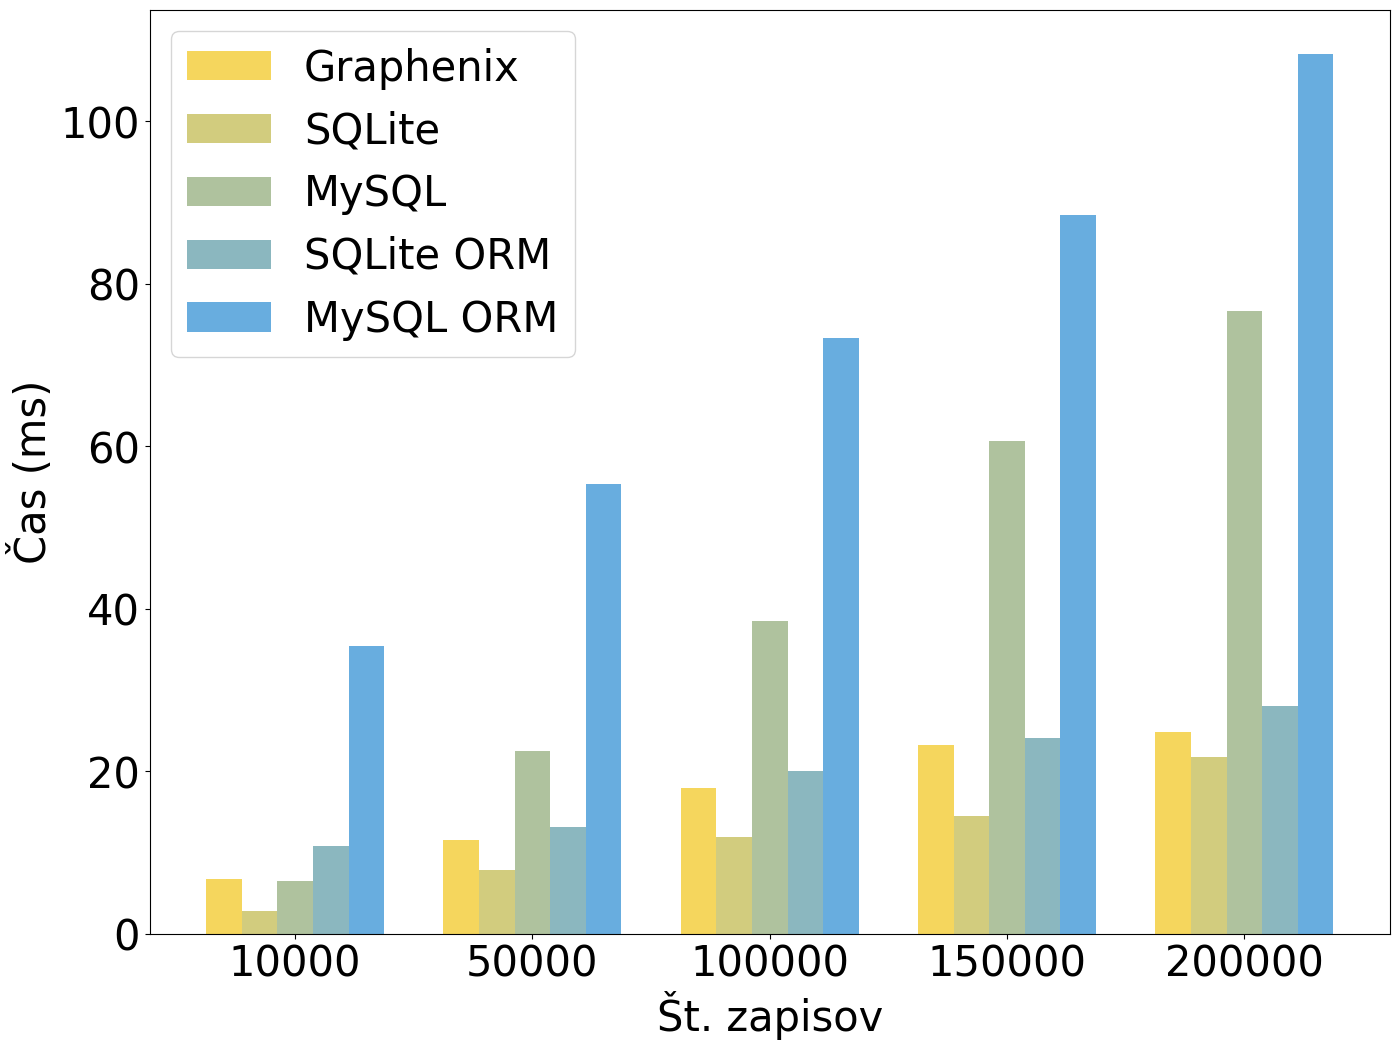
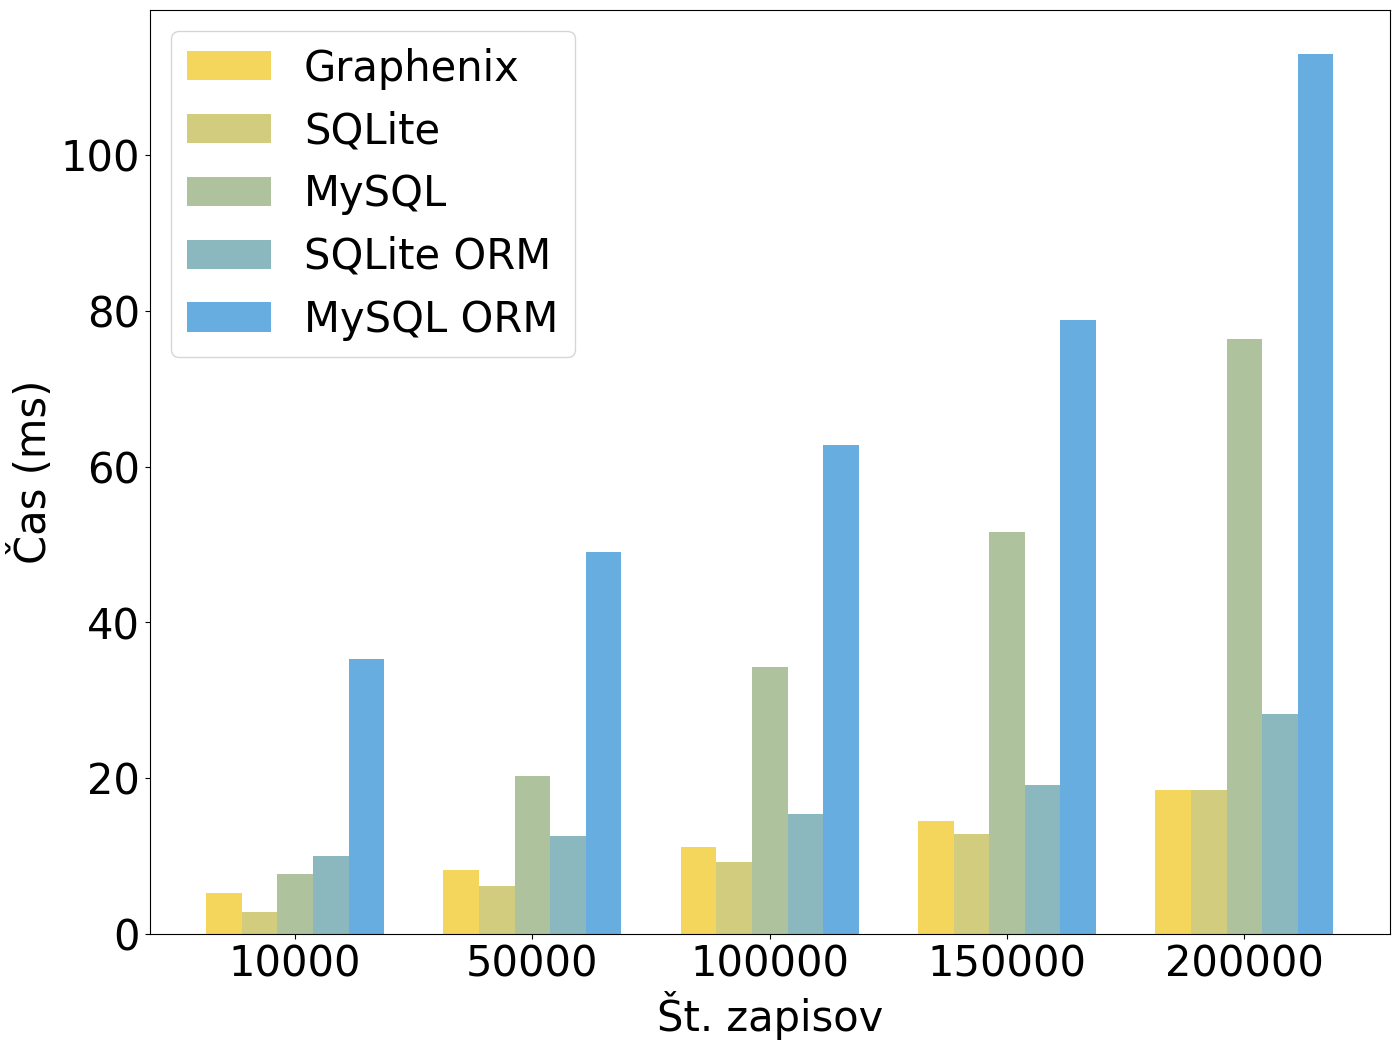
- db sizes analysis - makefile base for index insert, large db creation - resize of columns on user

diff --git a/analysis/singleinsert/sizes_analysis.py b/analysis/singleinsert/sizes_analysis.py
@@ -1,0 +1,65 @@
+import matplotlib.pyplot as plt
+import sys
+import numpy as np
+
+def read_nums(file_path): 
+    try:
+        with open(file_path, 'r') as file:
+            lines = file.readlines()
+            times = [float(line.strip()) for line in lines]
+        return np.array(times)
+    except Exception as ex:
+        print("err", ex)
+        return []
+    
+def bytes_array_to_megabytes(bytes_array):
+    megabytes_array = bytes_array / (1024 * 1024)
+    return np.round(megabytes_array, 2)
+
+def main():
+    num_users = int(sys.argv[1])
+    sizes = read_nums(f'analysis/singleinsert/size_{num_users}.txt')
+    mb_sizes = bytes_array_to_megabytes(sizes)
+    
+    plt.rcParams.update({'font.size': 3 * plt.rcParams['font.size']})
+    plt.style.use("fast")
+
+    fig, ax = plt.subplots(figsize=(16, 12))
+
+    bars = ax.bar(np.arange(3), mb_sizes, color=['#F5D65D', '#AFC29E', '#68ADDF'])
+
+    # Set labels and title
+    ax.set_xlabel('Podatkovni sistem')
+    ax.set_ylabel('Velikost (MB)')
+    ax.set_title('')
+    ax.set_xticks(np.arange(3))
+    ax.set_xticklabels(['Graphenix', 'SQLite', 'MySQL'], rotation=0)
+    for bar in bars:
+        height = bar.get_height()
+        bottom_offset = .5
+        ax.text(bar.get_x() + bar.get_width() / 2, bottom_offset, f'{height:.2f} MB', 
+                ha='center', va='bottom', fontweight='normal')
+
+    plt.savefig(f'./analysis/singleinsert/sizes.png', bbox_inches='tight')
+    plt.close()
+
+
+    
+
+if __name__ == '__main__':
+    main()
+
+
+
+    import numpy as np
+
+
+def read_nums(file_path): 
+    try:
+        with open(file_path, 'r') as file:
+            lines = file.readlines()
+            times = [float(line.strip()) for line in lines]
+        return np.array(times)
+    except Exception as ex:
+        print("err", ex)
+        return []

diff --git a/analysis/singleinsert/raw_mysql.py b/analysis/singleinsert/raw_mysql.py
@@ -9,9 +9,9 @@ random.seed(12)
 create_table = """
     CREATE TABLE `users` (
         `id` INTEGER NOT NULL AUTO_INCREMENT,
-        `first_name` varchar(50) DEFAULT NULL,
-        `last_name` varchar(50) DEFAULT NULL,
-        `email` varchar(50) DEFAULT NULL,
+        `first_name` varchar(15) DEFAULT NULL,
+        `last_name` varchar(15) DEFAULT NULL,
+        `email` varchar(30) DEFAULT NULL,
         `age` int(11) DEFAULT NULL,
         `is_admin` tinyint(1) DEFAULT NULL,
         `created_at` datetime DEFAULT NULL,

diff --git a/analysis/singleinsert/alchemy_mysql.py b/analysis/singleinsert/alchemy_mysql.py
@@ -13,9 +13,9 @@ Base = declarative_base()
 class User(Base):
     __tablename__ = 'users'
     id = Column(Integer, primary_key=True)
-    first_name = Column(String(50))
-    last_name = Column(String(50))
-    email = Column(String(50))
+    first_name = Column(String(15))
+    last_name = Column(String(15))
+    email = Column(String(30))
     age = Column(Integer)
     is_admin = Column(Boolean)
     created_at = Column(DateTime)

diff --git a/analysis/singleinsert/alchemy_sqlite.py b/analysis/singleinsert/alchemy_sqlite.py
@@ -12,9 +12,9 @@ Base = declarative_base()
 class User(Base):
     __tablename__ = 'users'
     id = Column(Integer, primary_key=True)
-    first_name = Column(String(50))
-    last_name = Column(String(50))
-    email = Column(String(50))
+    first_name = Column(String(15))
+    last_name = Column(String(15))
+    email = Column(String(30))
     age = Column(Integer)
     is_admin = Column(Boolean)
     created_at = Column(DateTime)

diff --git a/analysis/join/alchemy_mysql.py b/analysis/join/alchemy_mysql.py
@@ -13,9 +13,9 @@ class Base:
 class User(Base):
     __tablename__ = 'users'
     id = Column(Integer, primary_key=True)
-    first_name = Column(String(50))
-    last_name = Column(String(50))
-    email = Column(String(50))
+    first_name = Column(String(15))
+    last_name = Column(String(15))
+    email = Column(String(30))
     age = Column(Integer)
     is_admin = Column(Boolean)
     created_at = Column(DateTime)

diff --git a/analysis/join/alchemy_sqlite.py b/analysis/join/alchemy_sqlite.py
@@ -13,9 +13,9 @@ class Base:
 class User(Base):
     __tablename__ = 'users'
     id = Column(Integer, primary_key=True)
-    first_name = Column(String(50))
-    last_name = Column(String(50))
-    email = Column(String(50))
+    first_name = Column(String(15))
+    last_name = Column(String(15))
+    email = Column(String(30))
     age = Column(Integer)
     is_admin = Column(Boolean)
     created_at = Column(DateTime)

diff --git a/analysis/queryread/alchemy_mysql.py b/analysis/queryread/alchemy_mysql.py
@@ -13,9 +13,9 @@ class Base:
 class User(Base):
     __tablename__ = 'users'
     id = Column(Integer, primary_key=True)
-    first_name = Column(String(50))
-    last_name = Column(String(50))
-    email = Column(String(50))
+    first_name = Column(String(15))
+    last_name = Column(String(15))
+    email = Column(String(30))
     age = Column(Integer)
     is_admin = Column(Boolean)
     created_at = Column(DateTime)

diff --git a/analysis/queryread/alchemy_sqlite.py b/analysis/queryread/alchemy_sqlite.py
@@ -13,9 +13,9 @@ class Base:
 class User(Base):
     __tablename__ = 'users'
     id = Column(Integer, primary_key=True)
-    first_name = Column(String(50))
-    last_name = Column(String(50))
-    email = Column(String(50))
+    first_name = Column(String(15))
+    last_name = Column(String(15))
+    email = Column(String(30))
     age = Column(Integer)
     is_admin = Column(Boolean)
     created_at = Column(DateTime)

diff --git a/analysis/singleread/alchemy_mysql.py b/analysis/singleread/alchemy_mysql.py
@@ -13,9 +13,9 @@ class Base:
 class User(Base):
     __tablename__ = 'users'
     id = Column(Integer, primary_key=True)
-    first_name = Column(String(50))
-    last_name = Column(String(50))
-    email = Column(String(50))
+    first_name = Column(String(15))
+    last_name = Column(String(15))
+    email = Column(String(30))
     age = Column(Integer)
     is_admin = Column(Boolean)
     created_at = Column(DateTime)

diff --git a/analysis/singleread/alchemy_sqlite.py b/analysis/singleread/alchemy_sqlite.py
@@ -13,9 +13,9 @@ class Base:
 class User(Base):
     __tablename__ = 'users'
     id = Column(Integer, primary_key=True)
-    first_name = Column(String(50))
-    last_name = Column(String(50))
-    email = Column(String(50))
+    first_name = Column(String(15))
+    last_name = Column(String(15))
+    email = Column(String(30))
     age = Column(Integer)
     is_admin = Column(Boolean)
     created_at = Column(DateTime)

diff --git a/analysis/singleinsert/graphenix.py b/analysis/singleinsert/graphenix.py
@@ -6,9 +6,9 @@ import random
 random.seed(12)
 
 class User(Model):
-    first_name = Field.String(size=50)
-    last_name = Field.String(size=50)
-    email = Field.String(size=50)
+    first_name = Field.String(size=15)
+    last_name = Field.String(size=15)
+    email = Field.String(size=30)
     age = Field.Int()
     is_admin = Field.Bool()
     created_at = Field.DateTime()

diff --git a/analysis/singleinsert/graphenix_bulk.py b/analysis/singleinsert/graphenix_bulk.py
@@ -6,9 +6,9 @@ import random
 random.seed(12)
 
 class User(Model):
-    first_name = Field.String(size=50)
-    last_name = Field.String(size=50)
-    email = Field.String(size=50)
+    first_name = Field.String(size=15)
+    last_name = Field.String(size=15)
+    email = Field.String(size=30)
     age = Field.Int()
     is_admin = Field.Bool()
     created_at = Field.DateTime()
